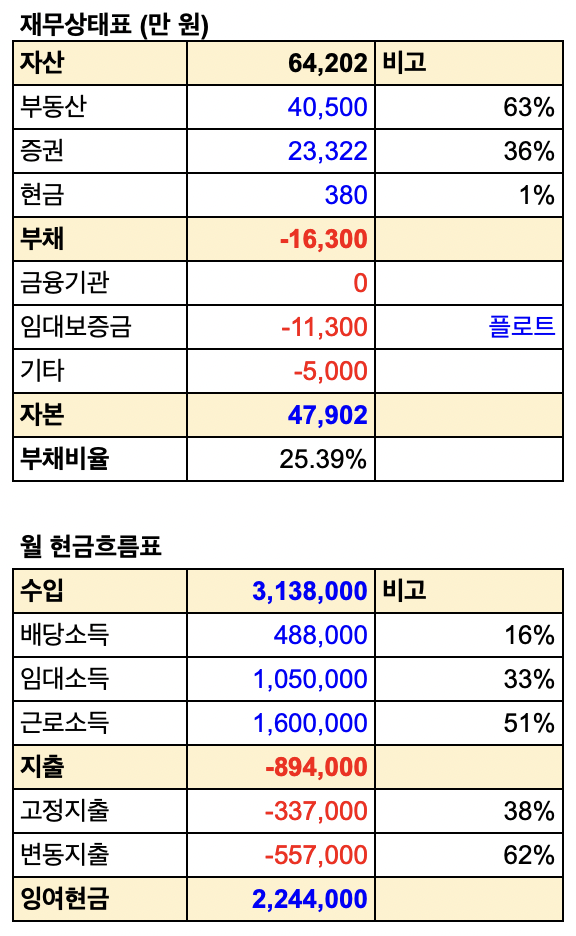
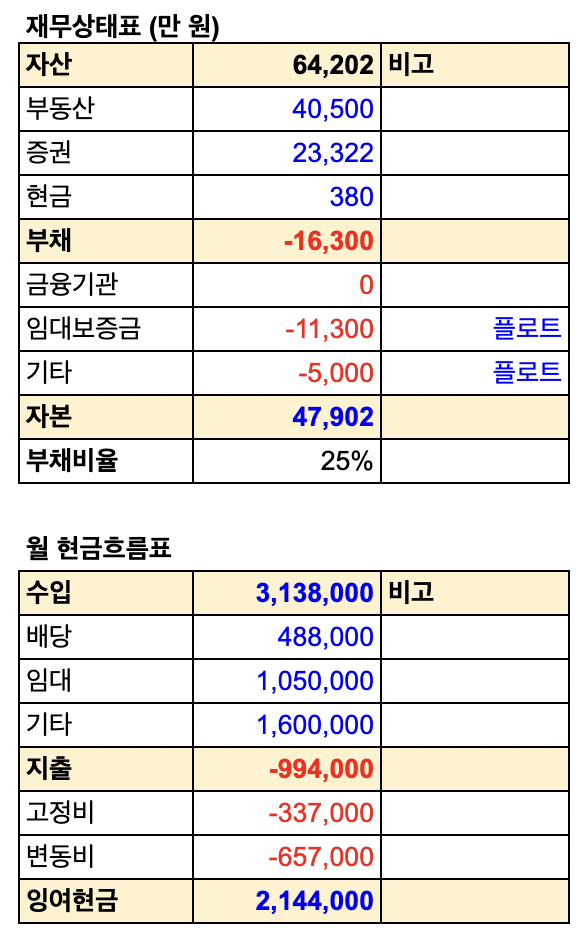
2020 사업보고서 내용 수정

Changed region(s): [[0.0, 0.5577, 1.0, 0.9915], [0.0, 0.0, 1.0, 0.5267]]

diff --git a/md/사업보고서/2022.01.13.사업보고서.md b/md/사업보고서/2022.01.13.사업보고서.md
@@ -44,20 +44,20 @@ Value&Price(당사)는 훌륭한 재무 상태와 밝은 사업성을 가진 기
 
 - 부동산 장부 가격은 매수 원가를 기준으로 합니다. 자세한 사항은 아래 *부동산 분석* 항목을 참고 바랍니다.
 - 증권의 장부 가격은 보고서 작성일 기준 평가 금액입니다. 자세한 사항은 아래 *증권 분석* 항목을 참고 바랍니다.
-- 현금 보유량은 현재 전체 자산의 1%이며, 증권 대비 현금 보유량은 2%입니다. 최근 신규 투자 건으로 현금 보유량이 줄었습니다. 차차 증권 대비 10%의 현금을 확보하려고 합니다.
+- 현금 보유량은 현재 전체 자산의 1%이며, 증권 대비 현금 보유량은 2%입니다. 최근 신규 투자 건으로 현금 보유량이 줄었습니다.
 
 ##### 부채
 
 - 현재 금융기관에 어떠한 부채도 없습니다.
-- 현재 임대보증금 부채는 자기자본의 25% 수준이며 이자와 만기가 없는 유익한 부채(*플로트*)로 판단하고 있습니다.
-- 대표의 가족으로부터 지원받은 금액 5천만 원을 기타 부채로 분류했습니다.
-- 부채비율은 총자산 대비 부채 비율로 계산하고 있습니다.
+- 현재 임대보증금은 자기자본의 23% 수준이며 이자와 만기가 없는 유익한 부채(*플로트*)로 판단하고 있습니다.
+- 대표의 가족으로부터 지원받은 금액 5천만 원을 기타 부채로 분류하였고 플로트로 판단하고 있습니다.
+- 부채비율은 총자산 대비 부채 비율로 나타내고 있습니다.
 
 <br>
 
 #### 현금흐름표
 
-현금흐름표는 매월 1일부터 말일까지 발생하는 수입과 지출을 나타냅니다. 현재 당사는 현금 흐름은 매우 양호하고, 잉여 현금 흐름도 많이 창출되고 있습니다. 당사의 지출은 대표의 급여 외에 없습니다. 장기적으로 현금 흐름의 핵심은 배당 소득이 되어야 한다고 생각하고 있습니다. 회사의 성과는 잉여현금흐름의 축적이 아닌 보유 자산가치의 상승에 달려있습니다.
+현금흐름표는 매월 1일부터 말일까지 발생하는 수입과 지출을 나타냅니다. 현재 당사는 현금 흐름은 매우 양호하고, 잉여 현금 흐름도 많이 창출되고 있습니다. 당사의 지출은 대표의 급여 외에 없습니다. 장기적으로 현금 흐름의 핵심은 배당 소득이 되어야 한다고 보고 있습니다. 회사의 성과는 잉여현금흐름의 축적이 아닌 보유 자산가치의 상승에 달려있습니다.
 
 배당 소득 중, 월 배당과 분기 배당금은 월 현금흐름으로 환산하여 장부에 기입하고 있습니다. 반기 배당, 결산 배당, 기타 특별 배당은 현금흐름으로 집계하지 않고 발생 시점에 재무상태표에 현금으로 기입하고 있습니다.
 
@@ -65,7 +65,7 @@ Value&Price(당사)는 훌륭한 재무 상태와 밝은 사업성을 가진 기
 
 #### 재무진단 및 분석 의견
 
-현재 당사의 부채비율은 25% 정도로 양호하며 부채는 전액 플로트입니다. 부채를 추가로 일으킬 예정은 없습니다. 현금 비중이 낮아진 점이 아쉬우나 잉여 현금흐름과 수익 실현을 통해 차차 현금 비중을 높여가고자 합니다. 전체적인 재무 상태는 양호하다고 판단하고 있습니다.
+현재 당사의 부채비율은 양호하며 부채는 전액 플로트입니다. 부채를 추가로 일으킬 예정은 없습니다. 현금 비중이 낮아진 점이 아쉬우나 잉여현금흐름과 수익 실현을 통해 차차 현금 비중을 높여가고자 합니다. 전체적인 재무 상태는 양호하다고 판단하고 있습니다.
 
 <br><hr>
 
@@ -119,7 +119,7 @@ Value&Price(당사)는 훌륭한 재무 상태와 밝은 사업성을 가진 기
 
 - 안정성 : 부채 / 자산 비율은 41%로, LTV 41%는 부동산 투자에서 일반적인 부채 수준입니다.
 - 수익성 : ROE 4~6%, AFFO Ratio 76%, CAGR 13%, 배당률 4~5%로 높은 수익성을 보여줍니다. 서울시 현물 부동산 투자와 비슷하거나 조금 더 우수합니다.
-- 성장성 : 보유 부동산 가치는 연 6~11% 성장했습니다. 10년 후 부동산 가치가 90% 이상 상승한 것이며 우수한 성장입니다.
+- 성장성 : 보유 부동산 가치는 연 6~11% 성장했습니다. 10년 후 부동산 가치가 90% 이상 상승한 것이며 우수한 성장입니다. 또한 매년 200~700여 개의 부동산을 꾸준히 신규 취득하여 사업 규모를 확장하고 있습니다.
 - 기타 : 전체적인 재무 상태가 양호합니다. 실물 부동산 투자와 성과를 비교해도 비슷하거나 우월하다고 판단됩니다.
 
 <br>
@@ -354,7 +354,7 @@ BGSF는 미국 내 인력 솔루션, 기업 운영 솔루션을 제공하는 회
 
 ##### 리스크
 
-팬데믹으로 인한 불황이 예상보다 길게 이어질 경우 주가 회복에 오래 걸릴 수도 있습니다. 그러나 강원랜드에는 유보금이 워낙 많아서 향후 몇 년 간 매출이 전혀 없어도 버틸 여력이 있습니다. 강원랜드에 대한 투자는 시간 리스크일 뿐 안정성과 사업성은 의심할 여지가 없다고 판단됩니다.
+팬데믹으로 인한 불황이 예상보다 길게 이어질 경우 주가 회복에 오래 걸릴 수도 있습니다. 그러나 강원랜드에는 유보금이 워낙 많아서 향후 몇 년 간 매출이 전혀 없어도 버틸 여력이 있습니다. 강원랜드에 대한 투자는 시간 리스크일 뿐 안정성과 사업성은 의심할 여지가 없다고 판단됩니다. 정부의 통제를 강하게 받는 규제 산업이므로 운영시간 단축, 슬롯머신 수 축소 등의 제약이 발생할 수 있습니다. 그러나 팬데믹으로 인한 타격이 완전히 회복되기 전까지는 정부의 간섭이 없을 것이라고 생각합니다.
 
 <br>
 
